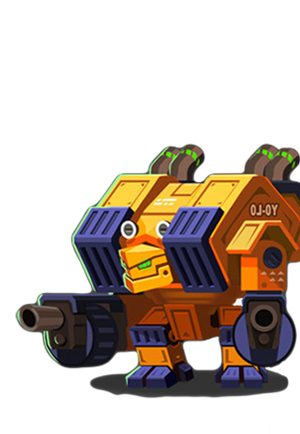
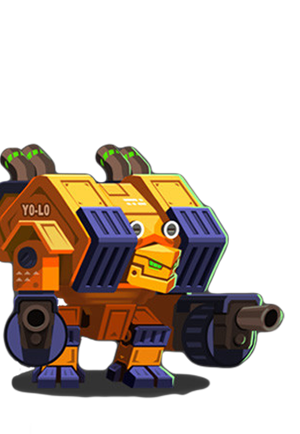
✨implement turret ex. hpBar, damagable

diff --git a/src/logic/GameController.java b/src/logic/GameController.java
@@ -2,6 +2,7 @@ package logic;
 
 import entity.*;
 import entity.base.Attackable;
+import entity.base.Damageable;
 import entity.base.Entity;
 
 import application.Drawing;
@@ -14,16 +15,18 @@ public class GameController {
     private static GameState gameState;
     private static EntityManager entityManager;
 
-    private static HeroTurret heroTurret;
-    private static EnemyTurret enemyTurret;
+    private static Turret heroTurret;
+    private static Turret enemyTurret;
 
     public static void InitGame() {
         energy = new Energy();
         entityManager = new EntityManager();
         gameState = GameState.Home;
 
-        heroTurret = new HeroTurret(0,155);
-        enemyTurret = new EnemyTurret(2711,155);
+        heroTurret = new HeroTurret(150,155);
+        enemyTurret = new EnemyTurret(2850,155);
+
+        entityManager.addEntities(heroTurret,enemyTurret);
 
     }
 
@@ -51,8 +54,8 @@ public class GameController {
             }
             if (e instanceof Attackable) {
                 if(e.getState() == logic.State.ATTACK && ((Attackable) e).canAttack()) {
-                Ranger target = getFrontRanger(e.getSide().getOpposite());
-                if (target != null) ((Attackable) e).attack(target);
+                Entity target = getFrontmost(e.getSide().getOpposite());
+                if (target != null) ((Attackable) e).attack((Damageable) target);
             }
             }
         }
@@ -73,23 +76,23 @@ public class GameController {
         entityManager.addEntities(ranger);
     }
 
-    public static Ranger getFrontRanger(Side side) {
-        Ranger frontHero = null;
-        Ranger frontEnemy = null;
+    public static Entity getFrontmost(Side side) {
+        Entity frontHero = null;
+        Entity frontEnemy = null;
         double maxX = 0;
         double minX = Double.MAX_VALUE;
         for (Entity e : entityManager.getAllEntity()) {
-            if (e instanceof Ranger) {
-                if (((Ranger) e).getSide() == Side.HERO) {
+            if (e instanceof Damageable) {
+                if ( e.getSide() == Side.HERO) {
                     if (maxX < e.getX()) {
                         maxX = e.getX();
-                        frontHero = (Ranger) e;
+                        frontHero = e;
                     }
                 }
-                if (((Ranger) e).getSide() == Side.ENEMY) {
+                if ( e.getSide() == Side.ENEMY) {
                     if (minX > e.getX()) {
                         minX = e.getX();
-                        frontEnemy = (Ranger) e;
+                        frontEnemy = e;
                     }
                 }
             }
@@ -114,11 +117,11 @@ public class GameController {
         return entityManager;
     }
 
-    public static HeroTurret getHeroTurret() {
+    public static Turret getHeroTurret() {
         return heroTurret;
     }
 
-    public static EnemyTurret getEnemyTurret() {
+    public static Turret getEnemyTurret() {
         return enemyTurret;
     }
 }

diff --git a/src/entity/Turret.java b/src/entity/Turret.java
@@ -1,11 +1,13 @@
 package entity;
 
+import application.Drawing;
 import entity.base.Attackable;
 import entity.base.Buyable;
 import entity.base.Damageable;
 import entity.base.Entity;
 import javafx.scene.canvas.GraphicsContext;
 import javafx.scene.image.Image;
+import logic.GameController;
 import logic.Side;
 import logic.State;
 
@@ -17,6 +19,7 @@ public class Turret extends Entity implements Attackable, Damageable{
     private int attackRange;
     private double attackDelay;
     private double attackCountdown;
+    private double sizeX;
 
     private Image image;
 
@@ -27,6 +30,7 @@ public class Turret extends Entity implements Attackable, Damageable{
                   double attackDelay,
                   double x,
                   double y,
+                  double sizeX,
                   Side side
     ) {
         super(x, y);
@@ -37,6 +41,7 @@ public class Turret extends Entity implements Attackable, Damageable{
         this.attackDelay = attackDelay;
         this.attackRange = attackRange;
         this.attackCountdown = this.attackDelay;
+        this.sizeX = sizeX;
 
         this.setSide(side);
 
@@ -60,7 +65,8 @@ public class Turret extends Entity implements Attackable, Damageable{
 
     @Override
     public void takeDamage(int i) {
-
+        setCurrentHP(currentHP - i);
+        GameController.getEntityManager().addEntities(new Smoke(this.getX(),this.getY()+100));
     }
 
     @Override
@@ -72,13 +78,14 @@ public class Turret extends Entity implements Attackable, Damageable{
         return name + ".png";
     }
 
-    public void update(double x,double y) {
-        this.setX(x);
-        this.setY(y);
-    }
-
-    public void draw(GraphicsContext gc) {
-        gc.drawImage(image, this.getX(), this.getY());
+    @Override
+    public void draw(GraphicsContext gc, double t) {
+        gc.drawImage(
+                image,
+                this.getX() - (this.getSide().getVal() * this.sizeX/2) + Drawing.getStartDraw(),
+                this.getY() + Drawing.getCurrentPosiBg(),
+                this.getSide().getVal()*image.getWidth(),
+                image.getHeight());
     }
 
 	public static double getMaxHP() {
@@ -89,9 +96,9 @@ public class Turret extends Entity implements Attackable, Damageable{
 		return currentHP;
 	}
 
-	public void setCurrentHP(double d) {
-		System.out.println("in");
-		this.currentHP = d;
+	public void setCurrentHP(double currentHP) {
+        this.currentHP = currentHP;
+        if (this.currentHP < 0) this.currentHP = 0;
 	}
     
     

diff --git a/src/entity/Ranger.java b/src/entity/Ranger.java
@@ -10,8 +10,6 @@ import logic.GameController;
 import logic.Side;
 import logic.State;
 
-import java.util.ArrayList;
-
 public abstract class Ranger extends Entity implements Attackable, Damageable, Buyable, Movable {
     private String name;
     private int maxHP;
@@ -62,9 +60,8 @@ public abstract class Ranger extends Entity implements Attackable, Damageable, B
         this.attackCountdown = this.attackDelay;
         this.setSide(side);
 
-        for (int i = 0; i < walkFrame; i++) {
+        for (int i = 0; i < walkFrame; i++)
             walkAnimated.frames.add(new Image(name + "/walk_" + i + ".png"));
-        }
         walkAnimated.duration = 20.0/this.getSpeed();
 
         for (int i = 0; i < atkFrame; i++)
@@ -144,7 +141,7 @@ public abstract class Ranger extends Entity implements Attackable, Damageable, B
     private State checkState() {
         if (this.getState() == State.DEAD || this.isDead()) return State.DEAD;
 
-        Ranger nearest = GameController.getFrontRanger(this.getSide().getOpposite());
+        Entity nearest = GameController.getFrontmost(this.getSide().getOpposite());
         if (nearest != null) {
             if (this.getSide().getVal()*(nearest.getX() - this.getX()) <= attackRange) {
                 return State.ATTACK;

diff --git a/src/gui/PlayPanel.java b/src/gui/PlayPanel.java
@@ -15,23 +15,23 @@ import javafx.geometry.Insets;
 
 public class PlayPanel extends StackPane{
 
+	public static HpBar hpHero = new HpBar(Side.HERO);
+	public static HpBar hpEnemy = new HpBar(Side.ENEMY);
+
 	public PlayPanel() {
-		HpBar hpHero = new HpBar();
-		hpHero.setSide(Side.HERO);
+
 		StackPane.setMargin(hpHero, new Insets(10, 10, 0, 0));
 		StackPane.setAlignment(hpHero, Pos.TOP_LEFT);
-		
-		HpBar hpEnemy = new HpBar();
-		hpEnemy.setSide(Side.ENEMY);
+
 		StackPane.setMargin(hpEnemy, new Insets(10, 0, 0, 10));
 		StackPane.setAlignment(hpEnemy, Pos.TOP_RIGHT);
 		
 		Button bn = new Button("debugButton");
 		bn.setOnMouseClicked(e ->{
-			System.out.println("Button on PlayPanel");
-			GameController.getHeroTurret().setCurrentHP(10);
-			System.out.println(GameController.getHeroTurret().getCurrentHP());
-			hpHero.update();
+//			System.out.println("Button on PlayPanel");
+//			GameController.getHeroTurret().setCurrentHP(10);
+//			System.out.println(GameController.getHeroTurret().getCurrentHP());
+//			hpHero.update();
 		});
 		StackPane.setAlignment(bn, Pos.TOP_LEFT);
 		

diff --git a/src/gui/HpBar.java b/src/gui/HpBar.java
@@ -19,21 +19,18 @@ public class HpBar extends Canvas {
 	private Side side;
 	private static WritableImage bg = new WritableImage(new Image(ClassLoader.getSystemResource("hpbar.png").toString(),width,height,false,false).getPixelReader(),0,0,width,height);
 	
-	public HpBar() {
+	public HpBar(Side side) {
 		this.setHeight(height);
 		this.setWidth(width);
 		this.gc = this.getGraphicsContext2D();
         gc.setStroke(Color.valueOf("#0000ff"));
         gc.strokeRect(200, 200, 200, 200);
         this.getStyleClass().add("canvas");
+
+        this.side = side;
 	}
-	
-	public void setSide(Side s) {
-		this.side = s;
-		update();
-	}
-	
-	public void update() {
+
+	public void draw() {
 		this.gc.clearRect(0,0,width,height);
 		gc.setFill(Color.WHITE);
 		gc.fillRect(0,0,width, height);

diff --git a/src/application/Drawing.java b/src/application/Drawing.java
@@ -95,21 +95,15 @@ public class Drawing {
 			}
 			Drawing.drawBackground(gc);
 			Drawing.drawEntities(gc,t);
+			PlayPanel.hpEnemy.draw();
+			PlayPanel.hpHero.draw();
     	 }
 	}
 
-	public static void drawTurrent(GraphicsContext gc) {
-		int k = 155; //for debug 155
-		GameController.getHeroTurret().update(0 + startDraw,k+currentPosiBg);
-		GameController.getEnemyTurret().update(2711 + startDraw,k+currentPosiBg);
-		GameController.getHeroTurret().draw(gc);
-		GameController.getEnemyTurret().draw(gc);
-	}
 	
 	public static void drawBackground(GraphicsContext gc) {
 		gc.drawImage(bg, 0 + startDraw, currentPosiBg,bg.getWidth(),bg.getHeight());
-		drawTurrent(gc);
-		
+
 	}
 	
 	public static int getWindowWidth() {

diff --git a/src/entity/EnemyTurret.java b/src/entity/EnemyTurret.java
@@ -8,6 +8,7 @@ public class EnemyTurret extends Turret{
     private static final int attack;
     private static final int attackRange;
     private static final double attackDelay;
+    private static final double sizeX;
 
     static {
         name = "EnemyTurret";
@@ -15,10 +16,11 @@ public class EnemyTurret extends Turret{
         attack = 10;
         attackRange = 1000;
         attackDelay = 120;
+        sizeX = 300;
     }
 
     public EnemyTurret(double x,double y) {
-        super(name, maxHP, attack, attackRange, attackDelay, x, y,Side.ENEMY);
+        super(name, maxHP, attack, attackRange, attackDelay, x, y, sizeX,Side.ENEMY);
     }
     
 

diff --git a/src/entity/HeroTurret.java b/src/entity/HeroTurret.java
@@ -8,6 +8,7 @@ public class HeroTurret extends Turret{
     private static final int attack;
     private static final int attackRange;
     private static final double attackDelay;
+    private static final double sizeX;
 
     static {
         name = "HeroTurret";
@@ -15,10 +16,11 @@ public class HeroTurret extends Turret{
         attack = 10;
         attackRange = 1000;
         attackDelay = 120;
+        sizeX = 300;
     }
 
     public HeroTurret(double x,double y) {
-        super(name, maxHP, attack, attackRange, attackDelay, x, y,Side.HERO);
+        super(name, maxHP, attack, attackRange, attackDelay, x, y, sizeX, Side.HERO);
     }
 
 }

diff --git a/src/entity/Bullet.java b/src/entity/Bullet.java
@@ -66,7 +66,7 @@ public class Bullet extends Entity implements Attackable, Movable {
 
     private State checkState() {
         if (this.getState() == State.DEAD) return State.DEAD;
-        Ranger nearest = GameController.getFrontRanger(this.getSide().getOpposite());
+        Entity nearest = GameController.getFrontmost(this.getSide().getOpposite());
         if (nearest == null) return State.WALK;
         if (this.getSide().getVal()*(nearest.getX() - this.getX()) > attackRange) {
             return State.WALK;

diff --git a/src/test/TestGui.java b/src/test/TestGui.java
@@ -11,13 +11,14 @@ import javafx.scene.layout.StackPane;
 import javafx.stage.Stage;
 import javafx.stage.WindowEvent;
 import logic.GameLoop;
+import logic.Side;
 
 public class TestGui extends Application {
 	
 	@Override
 	public void start(Stage primaryStage) {
 		StackPane root = new StackPane();
-		HpBar  itemButton = new HpBar();
+		HpBar  itemButton = new HpBar(Side.HERO);
 		
 		root.getChildren().add(itemButton);
 		Scene scene = new Scene(root);

diff --git a/src/gui/HeroPane.java b/src/gui/HeroPane.java
@@ -37,7 +37,7 @@ public class HeroPane extends HBox{
 			    new EventHandler<MouseEvent>() {
 			        @Override public void handle(MouseEvent e) {
 			        	// createRanger
-						GameController.createRanger(x.hero.getName(), Side.ENEMY);
+//						GameController.createRanger(x.hero.getName(), Side.ENEMY);
 						GameController.createRanger(x.hero.getName(), Side.HERO);
 			            x.setEffect(shadow);
 						System.out.println("Click");
